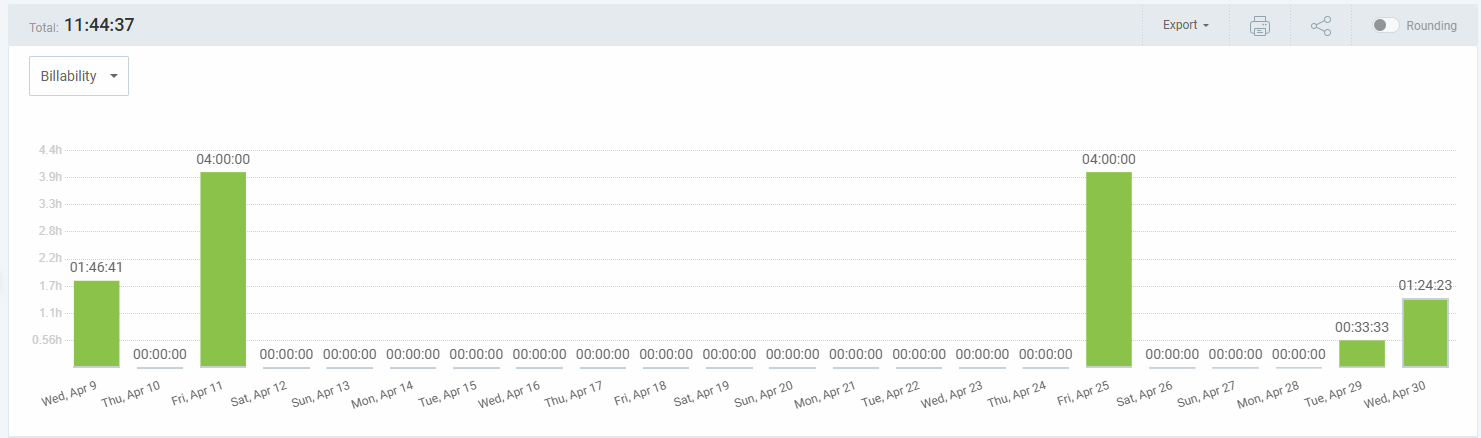
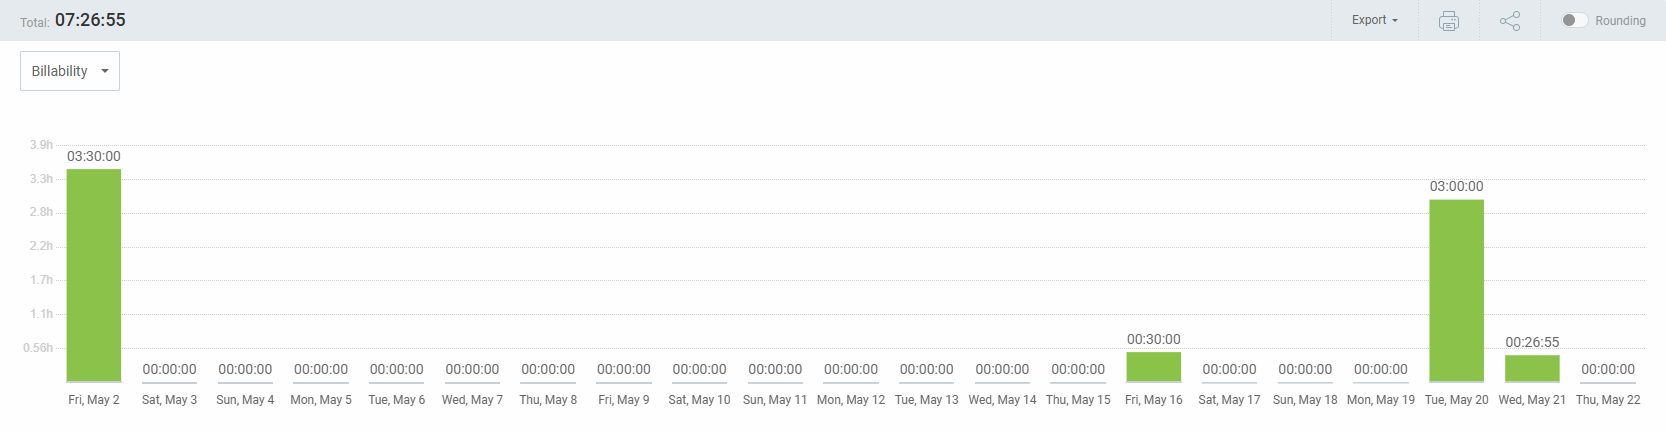
docs(WPL): timeEffort Sergio

Changed region(s): [[0.0, 0.0302, 1.0, 1.0], [0.0, 0.1508, 0.0932, 0.2413]]

diff --git a/docs/WPL/timeEffortReport.md b/docs/WPL/timeEffortReport.md
@@ -38,6 +38,7 @@
 | 22/05/2025  | v 1.0         | Versión inicial del documento - Parte de Luis | Luis Mellado Díaz |
 | 22/05/2025  | v 1.1         | Parte Francisco | Francisco Miguel Jiménez Morales |
 | 22/05/2025  | v 1.2         | Parte Fernando | Fernando Castelló Sánchez |
+| 22/05/2025  | v 1.3         | Parte de Sergio | Sergio Trenado González |
 
 
 ---
@@ -93,18 +94,17 @@
 
 ## Reporte de tiempo de Sergio Trenado Gonzalez
 
-**Periodo:** 09/04/2025 - 30/04/2025
-**Total de tiempo trabajado:** 11:44:37
+**Periodo:** 01/05/2025 - 22/05/2025
+**Total de tiempo trabajado:** 07:26:55
 
 ### Proyecto Pawtel - Distribución del tiempo
 
 | Descripción                                                                                                      | Duración  |
 |------------------------------------------------------------------------------------------------------------------|-----------|
-| Clase 25 abril                                                                                                   | 04:00:00  |
-| Clase 11 abril                                                                                                   | 04:00:00  |
-| Puliendo ultimos detalles y mejorando pantalla de admin                                                          | 01:46:41  |
-| Mejorando detalles y arreglando bugs  + IA Report                                                                | 01:24:23  |
-| Mejorando detalles y arreglando bugs                                                                             | 00:33:33  |
+| PPL                                                                                                              | 03:30:00  |
+| WPL Presentación + Reunión                                                                                       | 03:00:00  |
+| Sesión de evaluación                                                                                             | 00:30:00  |
+| Feedback presentación                                                                                            | 00:26:55  |
 
 
 ![grafico-de-tiempos](graficas/sergio.png)
